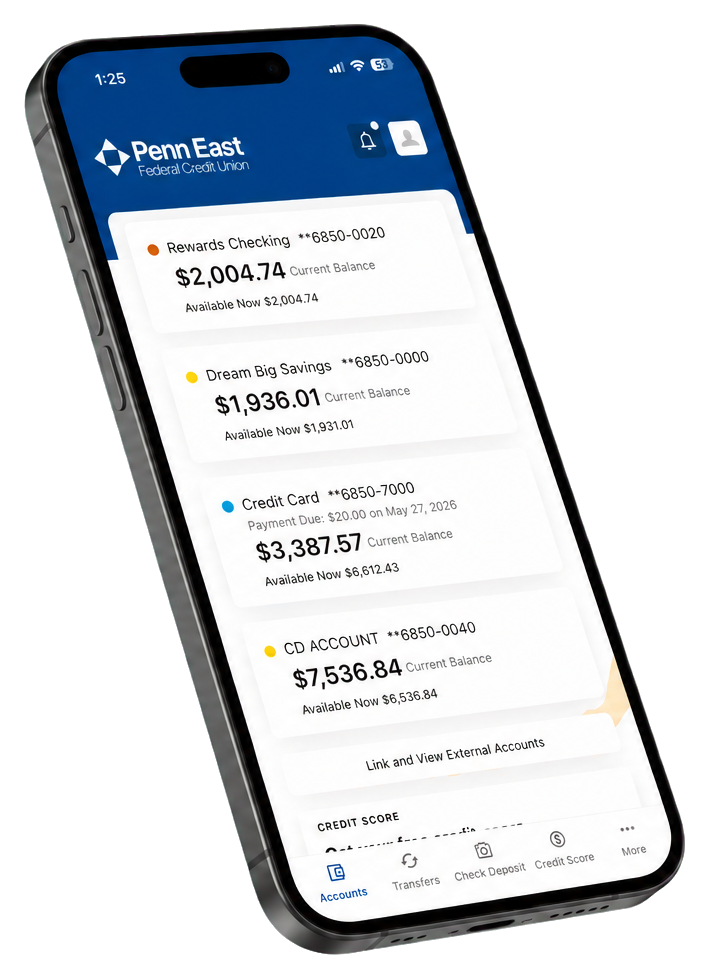
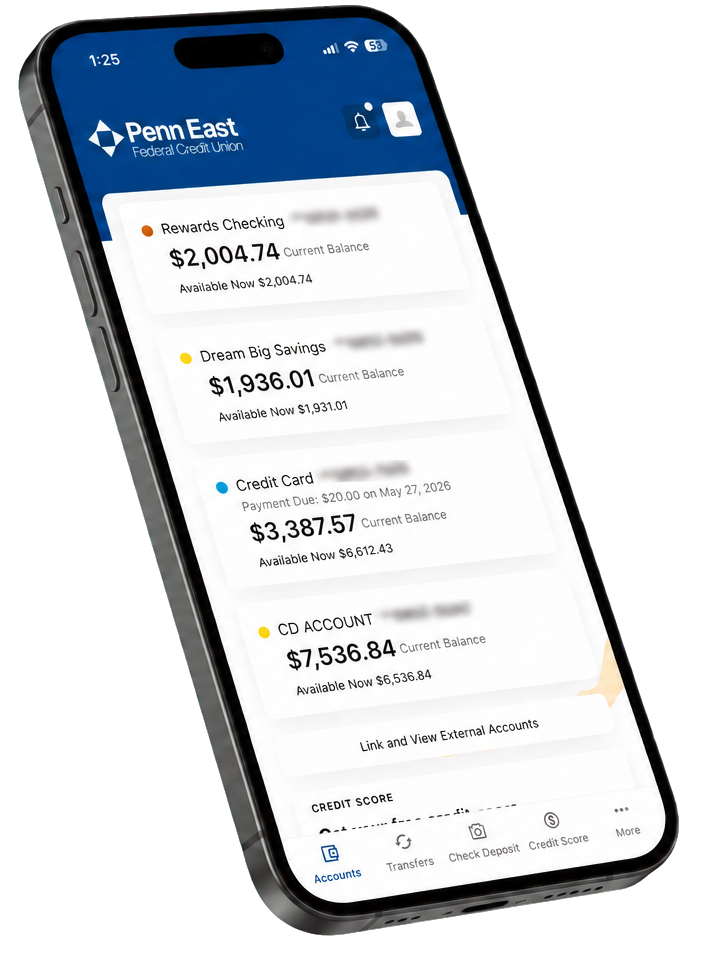
Add background video file for enhanced visual experience

diff --git a/src/scripts/main.ts b/src/scripts/main.ts
@@ -61,7 +61,7 @@ const initializeHero = () => {
     .timeline({ defaults: { ease: "power4.out" } })
     .from(".hero__top", { y: -28, autoAlpha: 0, duration: 0.8 })
     .from(".hero__kicker", { y: 20, autoAlpha: 0, duration: 0.65 }, 0.2)
-    .from(split.words, { yPercent: 115, rotate: 2, duration: 1.25, stagger: 0.035 }, 0.28)
+    .from(split.words, { yPercent: 145, rotate: 2, duration: 1.25, stagger: 0.035 }, 0.28)
     .from("[data-hero-lead]", { y: 30, autoAlpha: 0, duration: 0.85 }, 0.72)
     .from("[data-hero-actions]", { y: 24, autoAlpha: 0, duration: 0.75 }, 0.84)
     .from("[data-hero-date]", { x: 30, autoAlpha: 0, duration: 0.7 }, 0.78)
@@ -96,7 +96,7 @@ const initializeSplitReveals = () => {
           return gsap.set(self.lines, { yPercent: 0, rotate: 0 });
         }
 
-        gsap.set(self.lines, { yPercent: 115, rotate: 1.5 });
+        gsap.set(self.lines, { yPercent: 145, rotate: 1.5 });
         return gsap.to(self.lines, {
           yPercent: 0,
           rotate: 0,
@@ -266,120 +266,14 @@ const initializeJourney = () => {
   });
 };
 
-type FrameState = {
-  image: HTMLImageElement | null;
-  loading: boolean;
-};
-
-const initializeScrollFilm = async () => {
+const initializeScrollFilm = () => {
   const section = document.querySelector<HTMLElement>("[data-scroll-film]");
-  const canvas = document.querySelector<HTMLCanvasElement>("#scroll-frame-canvas");
-  const status = document.querySelector<HTMLElement>("[data-frame-status]");
   const progressBar = document.querySelector<HTMLElement>("[data-film-progress]");
   const chapters = gsap.utils.toArray<HTMLElement>("[data-film-chapter]");
   const products = gsap.utils.toArray<HTMLElement>("[data-film-product]");
-  const context = canvas?.getContext("2d", { alpha: false });
-  const count = Number(section?.dataset.frameCount || 0);
+  if (!section || !chapters.length) return;
 
-  if (!section || !canvas || !context || !count) return;
-
-  const frameStep = window.innerWidth < 700 ? 2 : 1;
-  const states: FrameState[] = Array.from({ length: count }, () => ({ image: null, loading: false }));
-  let activeFrame = -1;
   let activeChapter = 0;
-  let loadedCount = 0;
-  let renderRaf = 0;
-  let targetFrame = 0;
-
-  const framePath = (index: number) => `/frames/frame_${String(index + 1).padStart(4, "0")}.jpg`;
-
-  const resizeCanvas = () => {
-    const ratio = Math.min(window.devicePixelRatio || 1, 1.5);
-    const width = Math.max(1, Math.round(canvas.clientWidth * ratio));
-    const height = Math.max(1, Math.round(canvas.clientHeight * ratio));
-    if (canvas.width === width && canvas.height === height) return;
-    canvas.width = width;
-    canvas.height = height;
-    activeFrame = -1;
-    drawFrame(targetFrame);
-  };
-
-  const nearestLoadedFrame = (requested: number) => {
-    if (states[requested]?.image) return requested;
-    for (let offset = 1; offset < count; offset += 1) {
-      const before = requested - offset;
-      const after = requested + offset;
-      if (before >= 0 && states[before]?.image) return before;
-      if (after < count && states[after]?.image) return after;
-    }
-    return -1;
-  };
-
-  const drawFrame = (requested: number) => {
-    const index = nearestLoadedFrame(requested);
-    if (index < 0 || index === activeFrame) return;
-    const image = states[index].image;
-    if (!image) return;
-
-    const canvasRatio = canvas.width / canvas.height;
-    const imageRatio = image.naturalWidth / image.naturalHeight;
-    const width = imageRatio > canvasRatio ? canvas.height * imageRatio : canvas.width;
-    const height = imageRatio > canvasRatio ? canvas.height : canvas.width / imageRatio;
-
-    context.clearRect(0, 0, canvas.width, canvas.height);
-    context.drawImage(image, (canvas.width - width) / 2, (canvas.height - height) / 2, width, height);
-    activeFrame = index;
-  };
-
-  const queueRender = () => {
-    if (renderRaf) return;
-    renderRaf = requestAnimationFrame(() => {
-      renderRaf = 0;
-      drawFrame(targetFrame);
-    });
-  };
-
-  const loadFrame = (index: number) =>
-    new Promise<void>((resolve) => {
-      const normalized = Math.min(count - 1, Math.max(0, Math.round(index / frameStep) * frameStep));
-      const state = states[normalized];
-      if (state.image || state.loading) {
-        resolve();
-        return;
-      }
-
-      state.loading = true;
-      const image = new Image();
-      image.decoding = "async";
-      image.onload = () => {
-        state.image = image;
-        state.loading = false;
-        loadedCount += 1;
-        if (status) {
-          const available = Math.ceil(count / frameStep);
-          status.textContent = loadedCount >= available ? "Scroll to explore" : `Loading experience · ${Math.min(99, Math.round((loadedCount / available) * 100))}%`;
-        }
-        queueRender();
-        resolve();
-      };
-      image.onerror = () => {
-        state.loading = false;
-        resolve();
-      };
-      image.src = framePath(normalized);
-    });
-
-  const preloadFrames = async () => {
-    const indices = Array.from({ length: Math.ceil(count / frameStep) }, (_, index) => index * frameStep).filter((index) => index < count);
-    let cursor = 1;
-    const workers = Array.from({ length: finePointer ? 7 : 4 }, async () => {
-      while (cursor < indices.length) {
-        const index = indices[cursor++];
-        await loadFrame(index);
-      }
-    });
-    await Promise.all(workers);
-  };
 
   const showChapter = (index: number) => {
     if (index === activeChapter || !chapters[index]) return;
@@ -431,13 +325,8 @@ const initializeScrollFilm = async () => {
     }
   };
 
-  await loadFrame(0);
-  resizeCanvas();
-  drawFrame(0);
-
   if (reducedMotion) {
     section.style.height = "100svh";
-    if (status) status.textContent = "Digital Banking · August 25, 2026";
     return;
   }
 
@@ -446,19 +335,11 @@ const initializeScrollFilm = async () => {
     start: "top top",
     end: "bottom bottom",
     onUpdate: (self) => {
-      targetFrame = Math.round(self.progress * (count - 1));
-      targetFrame = Math.min(count - 1, Math.max(0, Math.round(targetFrame / frameStep) * frameStep));
-      void loadFrame(targetFrame);
-      queueRender();
-
       const chapter = Math.min(chapters.length - 1, Math.floor(self.progress * chapters.length));
       showChapter(chapter);
       if (progressBar) gsap.set(progressBar, { scaleX: self.progress });
     },
   });
-
-  window.addEventListener("resize", resizeCanvas, { passive: true });
-  void preloadFrames();
 };
 
 const initializeProductStage = () => {
@@ -785,7 +666,7 @@ const initializeClosingMotion = () => {
   });
 };
 
-const initialize = async () => {
+const initialize = () => {
   document.body.classList.add("is-loading");
   initializeSmoothScroll();
   initializeAnchorLinks();
@@ -803,13 +684,10 @@ const initialize = async () => {
   initializeFaq();
   initializeTutorialDialog();
   initializeClosingMotion();
-  const scrollFilmReady = initializeScrollFilm();
+  initializeScrollFilm();
   document.body.classList.remove("is-loading");
-  ScrollTrigger.refresh();
-  await scrollFilmReady;
   ScrollTrigger.refresh();
 };
 
-void initialize().then(() => {
-  void document.fonts.ready.then(() => ScrollTrigger.refresh());
-});
+initialize();
+void document.fonts.ready.then(() => ScrollTrigger.refresh());

diff --git a/pages/index.html b/pages/index.html
@@ -200,22 +200,24 @@
         </div>
       </section>
 
-      <section class="scroll-film" data-scroll-film data-frame-count="137" aria-labelledby="film-title">
+      <section class="scroll-film" data-scroll-film aria-labelledby="film-title">
         <div class="scroll-film__sticky">
-          <canvas id="scroll-frame-canvas" aria-hidden="true"></canvas>
+          <video class="scroll-film__video" autoplay muted loop playsinline preload="metadata" aria-hidden="true">
+            <source src="/videos/bg.mp4" type="video/mp4" />
+          </video>
           <div class="scroll-film__scrim" aria-hidden="true"></div>
           <div class="scroll-film__noise" aria-hidden="true"></div>
 
           <div class="film-products" aria-hidden="true">
             <img class="film-product film-product--phone is-active" data-film-product src="/images/mobile-banking-phone-cutout.png" alt="" />
             <img class="film-product film-product--devices" data-film-product src="/images/multi-device-transparent.png" alt="" />
-            <img class="film-product film-product--experience" data-film-product src="/images/live-cc-card-management.png" alt="" />
+            <img class="film-product film-product--experience" data-film-product src="/images/live-cc-card-management.webp" alt="" />
             <img class="film-product film-product--member" data-film-product src="/images/budgeting-in-lifestyle.png" alt="" />
           </div>
 
           <div class="film-top shell">
             <span>Digital Banking / Reimagined</span>
-            <span data-frame-status>Preparing the experience…</span>
+            <span>Scroll to explore</span>
           </div>
 
           <div class="film-chapters shell">

diff --git a/src/styles/main.css b/src/styles/main.css
@@ -1112,12 +1112,13 @@ button {
   isolation: isolate;
 }
 
-#scroll-frame-canvas {
+.scroll-film__video {
   position: absolute;
   z-index: -3;
   inset: 0;
   width: 100%;
   height: 100%;
+  object-fit: cover;
   opacity: 0.76;
   filter: saturate(0.78) contrast(0.94);
 }
@@ -2111,7 +2112,10 @@ button {
 /* Motion states */
 .split-line {
   display: block;
-  overflow: clip;
+}
+
+.split-line-mask {
+  padding-bottom: 0.22em;
 }
 
 .reveal,